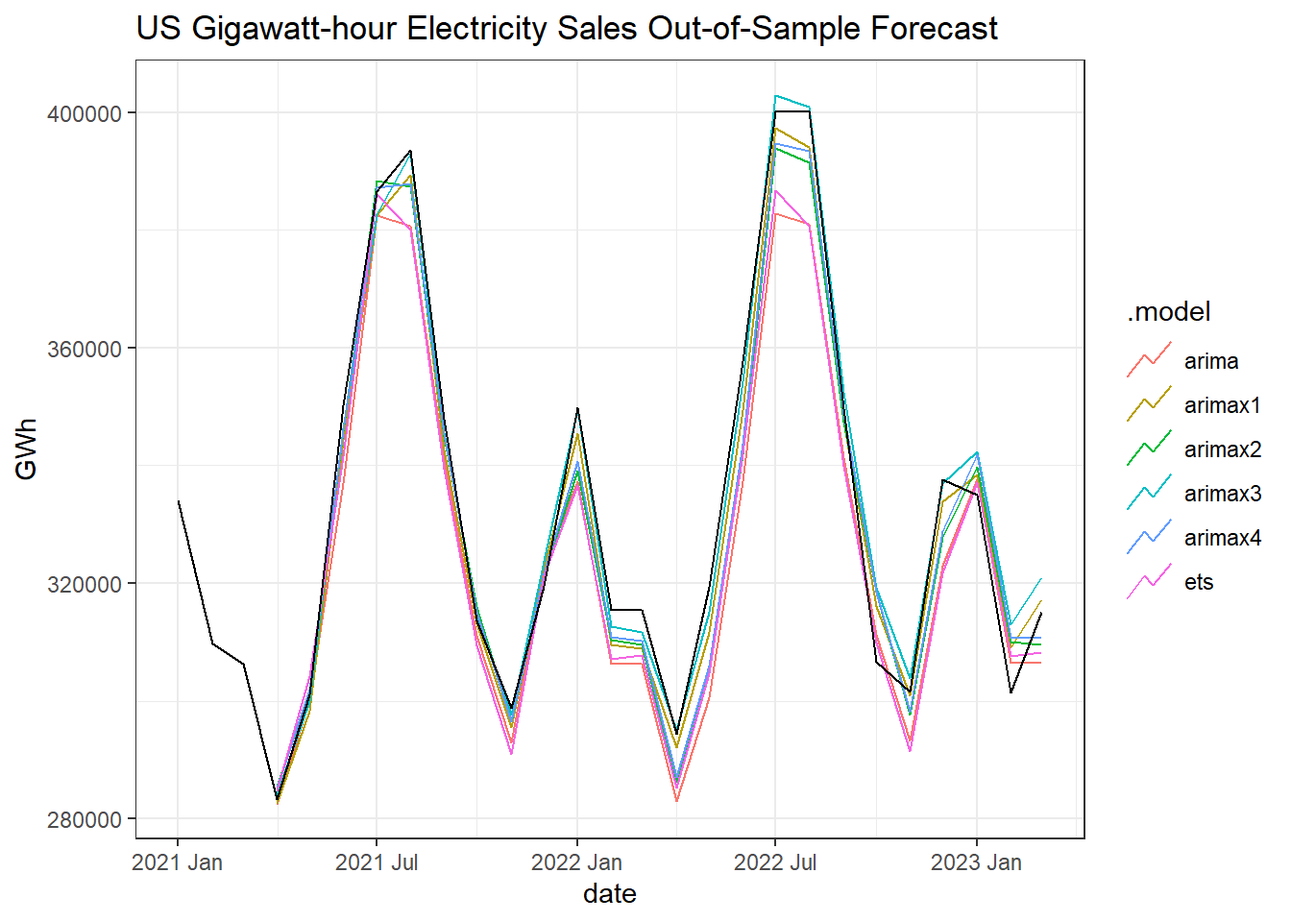
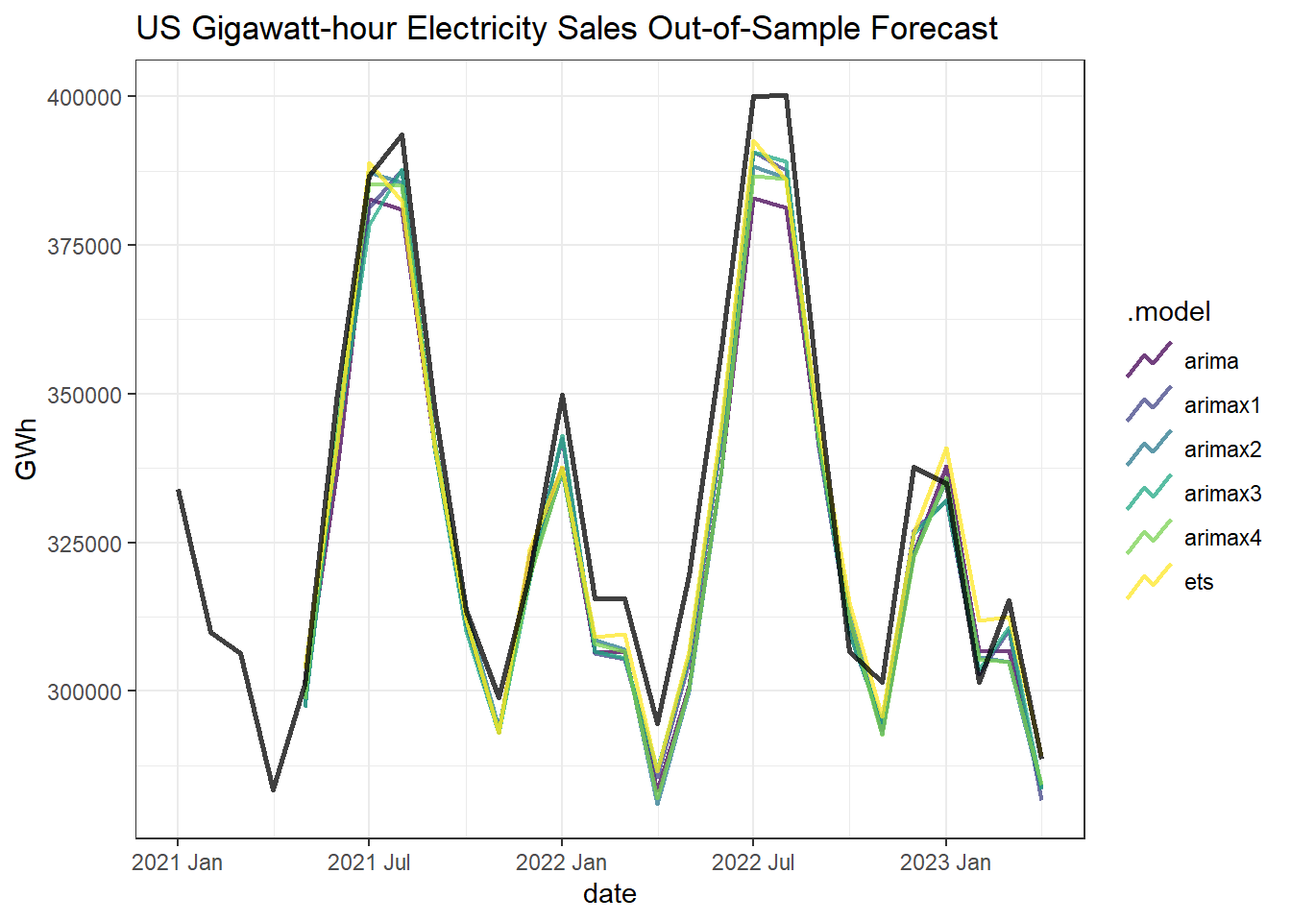
Corrected forecast for unknown regressors

diff --git a/Discussions/Week 4/Week 4.html b/Discussions/Week 4/Week 4.html
@@ -89,6 +89,7 @@ pre > code.sourceCode > span > a:first-child::before { text-decoration: underlin
   <li><a href="#modeling" id="toc-modeling" class="nav-link" data-scroll-target="#modeling">Modeling</a>
   <ul class="collapse">
   <li><a href="#forecast" id="toc-forecast" class="nav-link" data-scroll-target="#forecast">Forecast</a></li>
+  <li><a href="#actual-forecast" id="toc-actual-forecast" class="nav-link" data-scroll-target="#actual-forecast">Actual Forecast</a></li>
   </ul></li>
   </ul>
 </nav>
@@ -203,20 +204,38 @@ pre > code.sourceCode > span > a:first-child::before { text-decoration: underlin
 <span id="cb1-77"><a href="#cb1-77" aria-hidden="true" tabindex="-1"></a></span>
 <span id="cb1-78"><a href="#cb1-78" aria-hidden="true" tabindex="-1"></a><span class="co"># FRED</span></span>
 <span id="cb1-79"><a href="#cb1-79" aria-hidden="true" tabindex="-1"></a>{</span>
-<span id="cb1-80"><a href="#cb1-80" aria-hidden="true" tabindex="-1"></a>  <span class="co"># Using CEI as proxy for monthly GDP</span></span>
-<span id="cb1-81"><a href="#cb1-81" aria-hidden="true" tabindex="-1"></a>  cei <span class="ot">&lt;-</span> fredr<span class="sc">::</span><span class="fu">fredr</span>(<span class="st">"USPHCI"</span>) <span class="sc">%&gt;%</span> </span>
-<span id="cb1-82"><a href="#cb1-82" aria-hidden="true" tabindex="-1"></a>    <span class="fu">mutate</span>(<span class="at">date =</span> <span class="fu">yearmonth</span>(date)) <span class="sc">%&gt;%</span> </span>
-<span id="cb1-83"><a href="#cb1-83" aria-hidden="true" tabindex="-1"></a>    <span class="fu">rename</span>(<span class="at">cei =</span> value) <span class="sc">%&gt;%</span> </span>
-<span id="cb1-84"><a href="#cb1-84" aria-hidden="true" tabindex="-1"></a>    <span class="fu">select</span>(date, cei)</span>
-<span id="cb1-85"><a href="#cb1-85" aria-hidden="true" tabindex="-1"></a>  </span>
-<span id="cb1-86"><a href="#cb1-86" aria-hidden="true" tabindex="-1"></a>  gdp <span class="ot">&lt;-</span> fredr<span class="sc">::</span><span class="fu">fredr</span>(<span class="st">"GDPC1"</span>) <span class="sc">%&gt;%</span> </span>
-<span id="cb1-87"><a href="#cb1-87" aria-hidden="true" tabindex="-1"></a>    <span class="fu">mutate</span>(<span class="at">date =</span> <span class="fu">yearmonth</span>(date)) <span class="sc">%&gt;%</span> </span>
-<span id="cb1-88"><a href="#cb1-88" aria-hidden="true" tabindex="-1"></a>    <span class="fu">rename</span>(<span class="at">gdp =</span> value) <span class="sc">%&gt;%</span> </span>
-<span id="cb1-89"><a href="#cb1-89" aria-hidden="true" tabindex="-1"></a>    <span class="fu">select</span>(date, gdp)</span>
-<span id="cb1-90"><a href="#cb1-90" aria-hidden="true" tabindex="-1"></a>  </span>
-<span id="cb1-91"><a href="#cb1-91" aria-hidden="true" tabindex="-1"></a>}</span>
-<span id="cb1-92"><a href="#cb1-92" aria-hidden="true" tabindex="-1"></a></span>
-<span id="cb1-93"><a href="#cb1-93" aria-hidden="true" tabindex="-1"></a>data <span class="ot">&lt;-</span> purrr<span class="sc">::</span><span class="fu">reduce</span>(<span class="fu">list</span>(hdd, cdd, consumption, cei), inner_join)</span></code><button title="Copy to Clipboard" class="code-copy-button"><i class="bi"></i></button></pre></div>
+<span id="cb1-80"><a href="#cb1-80" aria-hidden="true" tabindex="-1"></a>  <span class="co"># # Using CEI as proxy for monthly GDP</span></span>
+<span id="cb1-81"><a href="#cb1-81" aria-hidden="true" tabindex="-1"></a>  <span class="co"># cei &lt;- fredr::fredr("USPHCI") %&gt;% </span></span>
+<span id="cb1-82"><a href="#cb1-82" aria-hidden="true" tabindex="-1"></a>  <span class="co">#   mutate(date = yearmonth(date)) %&gt;% </span></span>
+<span id="cb1-83"><a href="#cb1-83" aria-hidden="true" tabindex="-1"></a>  <span class="co">#   rename(cei = value) %&gt;% </span></span>
+<span id="cb1-84"><a href="#cb1-84" aria-hidden="true" tabindex="-1"></a>  <span class="co">#   select(date, cei)</span></span>
+<span id="cb1-85"><a href="#cb1-85" aria-hidden="true" tabindex="-1"></a>  <span class="co"># </span></span>
+<span id="cb1-86"><a href="#cb1-86" aria-hidden="true" tabindex="-1"></a>  <span class="co"># </span></span>
+<span id="cb1-87"><a href="#cb1-87" aria-hidden="true" tabindex="-1"></a>  <span class="co"># lei &lt;- fredr::fredr("BBKMLEIX") %&gt;% </span></span>
+<span id="cb1-88"><a href="#cb1-88" aria-hidden="true" tabindex="-1"></a>  <span class="co">#   mutate(date = yearmonth(date)) %&gt;% </span></span>
+<span id="cb1-89"><a href="#cb1-89" aria-hidden="true" tabindex="-1"></a>  <span class="co">#   rename(lei = value) %&gt;% </span></span>
+<span id="cb1-90"><a href="#cb1-90" aria-hidden="true" tabindex="-1"></a>  <span class="co">#   select(date, lei) %&gt;% </span></span>
+<span id="cb1-91"><a href="#cb1-91" aria-hidden="true" tabindex="-1"></a>  <span class="co">#   arrange(date) %&gt;% </span></span>
+<span id="cb1-92"><a href="#cb1-92" aria-hidden="true" tabindex="-1"></a>  <span class="co">#   mutate(</span></span>
+<span id="cb1-93"><a href="#cb1-93" aria-hidden="true" tabindex="-1"></a>  <span class="co">#     lei = 100*cumprod(1+lei/100)</span></span>
+<span id="cb1-94"><a href="#cb1-94" aria-hidden="true" tabindex="-1"></a>  <span class="co">#   )</span></span>
+<span id="cb1-95"><a href="#cb1-95" aria-hidden="true" tabindex="-1"></a>  <span class="co"># </span></span>
+<span id="cb1-96"><a href="#cb1-96" aria-hidden="true" tabindex="-1"></a>  <span class="co"># gdp &lt;- fredr::fredr("GDPC1") %&gt;% </span></span>
+<span id="cb1-97"><a href="#cb1-97" aria-hidden="true" tabindex="-1"></a>  <span class="co">#   mutate(date = yearmonth(date)) %&gt;% </span></span>
+<span id="cb1-98"><a href="#cb1-98" aria-hidden="true" tabindex="-1"></a>  <span class="co">#   rename(gdp = value) %&gt;% </span></span>
+<span id="cb1-99"><a href="#cb1-99" aria-hidden="true" tabindex="-1"></a>  <span class="co">#   select(date, gdp)</span></span>
+<span id="cb1-100"><a href="#cb1-100" aria-hidden="true" tabindex="-1"></a>  </span>
+<span id="cb1-101"><a href="#cb1-101" aria-hidden="true" tabindex="-1"></a>}</span></code><button title="Copy to Clipboard" class="code-copy-button"><i class="bi"></i></button></pre></div>
+</details>
+<div class="cell-output cell-output-stdout">
+<pre><code>NULL</code></pre>
+</div>
+<details>
+<summary>Code</summary>
+<div class="sourceCode cell-code" id="cb3"><pre class="sourceCode r code-with-copy"><code class="sourceCode r"><span id="cb3-1"><a href="#cb3-1" aria-hidden="true" tabindex="-1"></a>data <span class="ot">&lt;-</span> purrr<span class="sc">::</span><span class="fu">reduce</span>(<span class="fu">list</span>(</span>
+<span id="cb3-2"><a href="#cb3-2" aria-hidden="true" tabindex="-1"></a>  hdd, cdd, consumption</span>
+<span id="cb3-3"><a href="#cb3-3" aria-hidden="true" tabindex="-1"></a>  <span class="co"># , cei, lei</span></span>
+<span id="cb3-4"><a href="#cb3-4" aria-hidden="true" tabindex="-1"></a>), inner_join)</span></code><button title="Copy to Clipboard" class="code-copy-button"><i class="bi"></i></button></pre></div>
 </details>
 </div>
 </section>
@@ -227,12 +246,12 @@ pre > code.sourceCode > span > a:first-child::before { text-decoration: underlin
 <div class="cell">
 <details>
 <summary>Code</summary>
-<div class="sourceCode cell-code" id="cb2"><pre class="sourceCode r code-with-copy"><code class="sourceCode r"><span id="cb2-1"><a href="#cb2-1" aria-hidden="true" tabindex="-1"></a>test <span class="ot">&lt;-</span> data <span class="sc">%&gt;%</span> </span>
-<span id="cb2-2"><a href="#cb2-2" aria-hidden="true" tabindex="-1"></a>  <span class="fu">slice_max</span>(<span class="at">order_by =</span> date, <span class="at">n =</span> <span class="dv">24</span>) <span class="sc">%&gt;%</span> </span>
-<span id="cb2-3"><a href="#cb2-3" aria-hidden="true" tabindex="-1"></a>  <span class="fu">tsibble</span>(<span class="at">index =</span> date)</span>
-<span id="cb2-4"><a href="#cb2-4" aria-hidden="true" tabindex="-1"></a>train <span class="ot">&lt;-</span> data <span class="sc">%&gt;%</span> </span>
-<span id="cb2-5"><a href="#cb2-5" aria-hidden="true" tabindex="-1"></a>  <span class="fu">anti_join</span>(<span class="at">y =</span> test, <span class="at">by =</span> <span class="st">"date"</span>) <span class="sc">%&gt;%</span> </span>
-<span id="cb2-6"><a href="#cb2-6" aria-hidden="true" tabindex="-1"></a>  <span class="fu">tsibble</span>(<span class="at">index =</span> date)</span></code><button title="Copy to Clipboard" class="code-copy-button"><i class="bi"></i></button></pre></div>
+<div class="sourceCode cell-code" id="cb4"><pre class="sourceCode r code-with-copy"><code class="sourceCode r"><span id="cb4-1"><a href="#cb4-1" aria-hidden="true" tabindex="-1"></a>test <span class="ot">&lt;-</span> data <span class="sc">%&gt;%</span> </span>
+<span id="cb4-2"><a href="#cb4-2" aria-hidden="true" tabindex="-1"></a>  <span class="fu">slice_max</span>(<span class="at">order_by =</span> date, <span class="at">n =</span> <span class="dv">24</span>) <span class="sc">%&gt;%</span> </span>
+<span id="cb4-3"><a href="#cb4-3" aria-hidden="true" tabindex="-1"></a>  <span class="fu">tsibble</span>(<span class="at">index =</span> date)</span>
+<span id="cb4-4"><a href="#cb4-4" aria-hidden="true" tabindex="-1"></a>train <span class="ot">&lt;-</span> data <span class="sc">%&gt;%</span> </span>
+<span id="cb4-5"><a href="#cb4-5" aria-hidden="true" tabindex="-1"></a>  <span class="fu">anti_join</span>(<span class="at">y =</span> test, <span class="at">by =</span> <span class="st">"date"</span>) <span class="sc">%&gt;%</span> </span>
+<span id="cb4-6"><a href="#cb4-6" aria-hidden="true" tabindex="-1"></a>  <span class="fu">tsibble</span>(<span class="at">index =</span> date)</span></code><button title="Copy to Clipboard" class="code-copy-button"><i class="bi"></i></button></pre></div>
 </details>
 </div>
 </section>
@@ -244,9 +263,9 @@ pre > code.sourceCode > span > a:first-child::before { text-decoration: underlin
 <div class="cell">
 <details>
 <summary>Code</summary>
-<div class="sourceCode cell-code" id="cb3"><pre class="sourceCode r code-with-copy"><code class="sourceCode r"><span id="cb3-1"><a href="#cb3-1" aria-hidden="true" tabindex="-1"></a>train <span class="sc">%&gt;%</span> </span>
-<span id="cb3-2"><a href="#cb3-2" aria-hidden="true" tabindex="-1"></a>  <span class="fu">autoplot</span>(GWh) <span class="sc">+</span></span>
-<span id="cb3-3"><a href="#cb3-3" aria-hidden="true" tabindex="-1"></a>  <span class="fu">ggtitle</span>(<span class="st">"Monthly Gigawatt-hour Electricity Sales in US"</span>)</span></code><button title="Copy to Clipboard" class="code-copy-button"><i class="bi"></i></button></pre></div>
+<div class="sourceCode cell-code" id="cb5"><pre class="sourceCode r code-with-copy"><code class="sourceCode r"><span id="cb5-1"><a href="#cb5-1" aria-hidden="true" tabindex="-1"></a>train <span class="sc">%&gt;%</span> </span>
+<span id="cb5-2"><a href="#cb5-2" aria-hidden="true" tabindex="-1"></a>  <span class="fu">autoplot</span>(GWh) <span class="sc">+</span></span>
+<span id="cb5-3"><a href="#cb5-3" aria-hidden="true" tabindex="-1"></a>  <span class="fu">ggtitle</span>(<span class="st">"Monthly Gigawatt-hour Electricity Sales in US"</span>)</span></code><button title="Copy to Clipboard" class="code-copy-button"><i class="bi"></i></button></pre></div>
 </details>
 <div class="cell-output-display">
 <p><img src="Week-4_files/figure-html/unnamed-chunk-3-1.png" class="img-fluid" width="672"></p>
@@ -256,9 +275,9 @@ pre > code.sourceCode > span > a:first-child::before { text-decoration: underlin
 <div class="cell">
 <details>
 <summary>Code</summary>
-<div class="sourceCode cell-code" id="cb4"><pre class="sourceCode r code-with-copy"><code class="sourceCode r"><span id="cb4-1"><a href="#cb4-1" aria-hidden="true" tabindex="-1"></a>train <span class="sc">%&gt;%</span> </span>
-<span id="cb4-2"><a href="#cb4-2" aria-hidden="true" tabindex="-1"></a>  <span class="fu">gg_season</span>(GWh) <span class="sc">+</span></span>
-<span id="cb4-3"><a href="#cb4-3" aria-hidden="true" tabindex="-1"></a>  <span class="fu">ggtitle</span>(<span class="st">"Seasonality Plot: Monthly Gigawatt-hour Electricity Sales in US"</span>)</span></code><button title="Copy to Clipboard" class="code-copy-button"><i class="bi"></i></button></pre></div>
+<div class="sourceCode cell-code" id="cb6"><pre class="sourceCode r code-with-copy"><code class="sourceCode r"><span id="cb6-1"><a href="#cb6-1" aria-hidden="true" tabindex="-1"></a>train <span class="sc">%&gt;%</span> </span>
+<span id="cb6-2"><a href="#cb6-2" aria-hidden="true" tabindex="-1"></a>  <span class="fu">gg_season</span>(GWh) <span class="sc">+</span></span>
+<span id="cb6-3"><a href="#cb6-3" aria-hidden="true" tabindex="-1"></a>  <span class="fu">ggtitle</span>(<span class="st">"Seasonality Plot: Monthly Gigawatt-hour Electricity Sales in US"</span>)</span></code><button title="Copy to Clipboard" class="code-copy-button"><i class="bi"></i></button></pre></div>
 </details>
 <div class="cell-output-display">
 <p><img src="Week-4_files/figure-html/unnamed-chunk-4-1.png" class="img-fluid" width="672"></p>
@@ -268,9 +287,9 @@ pre > code.sourceCode > span > a:first-child::before { text-decoration: underlin
 <div class="cell">
 <details>
 <summary>Code</summary>
-<div class="sourceCode cell-code" id="cb5"><pre class="sourceCode r code-with-copy"><code class="sourceCode r"><span id="cb5-1"><a href="#cb5-1" aria-hidden="true" tabindex="-1"></a>train <span class="sc">%&gt;%</span> </span>
-<span id="cb5-2"><a href="#cb5-2" aria-hidden="true" tabindex="-1"></a>  <span class="fu">gg_subseries</span>(GWh) <span class="sc">+</span></span>
-<span id="cb5-3"><a href="#cb5-3" aria-hidden="true" tabindex="-1"></a>  <span class="fu">ggtitle</span>(<span class="st">"Subseries Plot: Monthly Gigawatt-hour Electricity Sales in US"</span>)</span></code><button title="Copy to Clipboard" class="code-copy-button"><i class="bi"></i></button></pre></div>
+<div class="sourceCode cell-code" id="cb7"><pre class="sourceCode r code-with-copy"><code class="sourceCode r"><span id="cb7-1"><a href="#cb7-1" aria-hidden="true" tabindex="-1"></a>train <span class="sc">%&gt;%</span> </span>
+<span id="cb7-2"><a href="#cb7-2" aria-hidden="true" tabindex="-1"></a>  <span class="fu">gg_subseries</span>(GWh) <span class="sc">+</span></span>
+<span id="cb7-3"><a href="#cb7-3" aria-hidden="true" tabindex="-1"></a>  <span class="fu">ggtitle</span>(<span class="st">"Subseries Plot: Monthly Gigawatt-hour Electricity Sales in US"</span>)</span></code><button title="Copy to Clipboard" class="code-copy-button"><i class="bi"></i></button></pre></div>
 </details>
 <div class="cell-output-display">
 <p><img src="Week-4_files/figure-html/unnamed-chunk-5-1.png" class="img-fluid" width="672"></p>
@@ -279,8 +298,8 @@ pre > code.sourceCode > span > a:first-child::before { text-decoration: underlin
 <div class="cell">
 <details>
 <summary>Code</summary>
-<div class="sourceCode cell-code" id="cb6"><pre class="sourceCode r code-with-copy"><code class="sourceCode r"><span id="cb6-1"><a href="#cb6-1" aria-hidden="true" tabindex="-1"></a>train <span class="sc">%&gt;%</span> </span>
-<span id="cb6-2"><a href="#cb6-2" aria-hidden="true" tabindex="-1"></a>  <span class="fu">gg_tsdisplay</span>(GWh, <span class="at">plot_type =</span> <span class="st">"partial"</span>, <span class="at">lag_max =</span> <span class="dv">36</span>)</span></code><button title="Copy to Clipboard" class="code-copy-button"><i class="bi"></i></button></pre></div>
+<div class="sourceCode cell-code" id="cb8"><pre class="sourceCode r code-with-copy"><code class="sourceCode r"><span id="cb8-1"><a href="#cb8-1" aria-hidden="true" tabindex="-1"></a>train <span class="sc">%&gt;%</span> </span>
+<span id="cb8-2"><a href="#cb8-2" aria-hidden="true" tabindex="-1"></a>  <span class="fu">gg_tsdisplay</span>(GWh, <span class="at">plot_type =</span> <span class="st">"partial"</span>, <span class="at">lag_max =</span> <span class="dv">36</span>)</span></code><button title="Copy to Clipboard" class="code-copy-button"><i class="bi"></i></button></pre></div>
 </details>
 </div>
 </section>
@@ -290,36 +309,14 @@ pre > code.sourceCode > span > a:first-child::before { text-decoration: underlin
 <div class="cell">
 <details>
 <summary>Code</summary>
-<div class="sourceCode cell-code" id="cb7"><pre class="sourceCode r code-with-copy"><code class="sourceCode r"><span id="cb7-1"><a href="#cb7-1" aria-hidden="true" tabindex="-1"></a>train <span class="sc">%&gt;%</span> </span>
-<span id="cb7-2"><a href="#cb7-2" aria-hidden="true" tabindex="-1"></a>  <span class="fu">model</span>(<span class="fu">STL</span>(GWh)) <span class="sc">%&gt;%</span> </span>
-<span id="cb7-3"><a href="#cb7-3" aria-hidden="true" tabindex="-1"></a>  <span class="fu">components</span>() <span class="sc">%&gt;%</span> </span>
-<span id="cb7-4"><a href="#cb7-4" aria-hidden="true" tabindex="-1"></a>  <span class="fu">autoplot</span>()</span></code><button title="Copy to Clipboard" class="code-copy-button"><i class="bi"></i></button></pre></div>
+<div class="sourceCode cell-code" id="cb9"><pre class="sourceCode r code-with-copy"><code class="sourceCode r"><span id="cb9-1"><a href="#cb9-1" aria-hidden="true" tabindex="-1"></a>train <span class="sc">%&gt;%</span> </span>
+<span id="cb9-2"><a href="#cb9-2" aria-hidden="true" tabindex="-1"></a>  <span class="fu">model</span>(<span class="fu">STL</span>(GWh)) <span class="sc">%&gt;%</span> </span>
+<span id="cb9-3"><a href="#cb9-3" aria-hidden="true" tabindex="-1"></a>  <span class="fu">components</span>() <span class="sc">%&gt;%</span> </span>
+<span id="cb9-4"><a href="#cb9-4" aria-hidden="true" tabindex="-1"></a>  <span class="fu">autoplot</span>()</span></code><button title="Copy to Clipboard" class="code-copy-button"><i class="bi"></i></button></pre></div>
 </details>
 <div class="cell-output-display">
 <p><img src="Week-4_files/figure-html/unnamed-chunk-7-1.png" class="img-fluid" width="672"></p>
 </div>
-</div>
-</section>
-<section id="cei-vs-gdp" class="level4">
-<h4 class="anchored" data-anchor-id="cei-vs-gdp">CEI vs GDP</h4>
-<p>To account for the business cycle correlation, the Coincident Economic Index (CEI) by the Federal Reserve Bank of Philadelphia will be used. Since US GDP is released quarterly, the CEI will be used instead. The CEI is highly correlated with GDP, and the business cycle, and should suffice. An alternative measure that could also work would be the Industrial Production Index, though that would not contain changes due to residential and commercial customer behavior.</p>
-<div class="cell">
-<details>
-<summary>Code</summary>
-<div class="sourceCode cell-code" id="cb8"><pre class="sourceCode r code-with-copy"><code class="sourceCode r"><span id="cb8-1"><a href="#cb8-1" aria-hidden="true" tabindex="-1"></a>train <span class="sc">%&gt;%</span> </span>
-<span id="cb8-2"><a href="#cb8-2" aria-hidden="true" tabindex="-1"></a>  <span class="fu">left_join</span>(<span class="at">y =</span> gdp) <span class="sc">%&gt;%</span> </span>
-<span id="cb8-3"><a href="#cb8-3" aria-hidden="true" tabindex="-1"></a>  <span class="fu">ggplot</span>(<span class="fu">aes</span>(<span class="at">x =</span> <span class="fu">scale</span>(gdp), <span class="at">y =</span> <span class="fu">scale</span>(cei), <span class="at">color =</span> <span class="fu">as.Date</span>(date))) <span class="sc">+</span></span>
-<span id="cb8-4"><a href="#cb8-4" aria-hidden="true" tabindex="-1"></a>  <span class="fu">geom_point</span>() <span class="sc">+</span></span>
-<span id="cb8-5"><a href="#cb8-5" aria-hidden="true" tabindex="-1"></a>  <span class="fu">geom_abline</span>(<span class="at">slope =</span> <span class="dv">1</span>, <span class="at">intercept =</span> <span class="dv">0</span>, <span class="at">linetype =</span> <span class="st">"dashed"</span>) <span class="sc">+</span></span>
-<span id="cb8-6"><a href="#cb8-6" aria-hidden="true" tabindex="-1"></a>  <span class="fu">ggtitle</span>(<span class="st">"Real GDP &amp; Coincident Economic Index"</span>) <span class="co">#+</span></span></code><button title="Copy to Clipboard" class="code-copy-button"><i class="bi"></i></button></pre></div>
-</details>
-<div class="cell-output-display">
-<p><img src="Week-4_files/figure-html/unnamed-chunk-8-1.png" class="img-fluid" width="672"></p>
-</div>
-<details>
-<summary>Code</summary>
-<div class="sourceCode cell-code" id="cb9"><pre class="sourceCode r code-with-copy"><code class="sourceCode r"><span id="cb9-1"><a href="#cb9-1" aria-hidden="true" tabindex="-1"></a>  <span class="co"># scale_color_viridis_c()</span></span></code><button title="Copy to Clipboard" class="code-copy-button"><i class="bi"></i></button></pre></div>
-</details>
 </div>
 </section>
 <section id="correlations-with-electricity" class="level4">
@@ -334,7 +331,7 @@ pre > code.sourceCode > span > a:first-child::before { text-decoration: underlin
 <span id="cb10-5"><a href="#cb10-5" aria-hidden="true" tabindex="-1"></a>  <span class="fu">facet_wrap</span>(name <span class="sc">~</span> ., <span class="at">scales =</span> <span class="st">"free"</span>)</span></code><button title="Copy to Clipboard" class="code-copy-button"><i class="bi"></i></button></pre></div>
 </details>
 <div class="cell-output-display">
-<p><img src="Week-4_files/figure-html/unnamed-chunk-9-1.png" class="img-fluid" width="672"></p>
+<p><img src="Week-4_files/figure-html/unnamed-chunk-8-1.png" class="img-fluid" width="672"></p>
 </div>
 </div>
 <p>Though there appears to be a parabolic relation between HDD and CDD with Electricity Sales, this is likely a result of months where there are both CDD and HDD. The below chart shows the correlation between Sales and HDD after removing the correlation with CDD. Though some non-linearity exists, it is much better. This could indicate struggling performance in the “shoulder months”, spring and fall, where both CDD and HDD are found.</p>
@@ -349,7 +346,7 @@ pre > code.sourceCode > span > a:first-child::before { text-decoration: underlin
 <span id="cb11-6"><a href="#cb11-6" aria-hidden="true" tabindex="-1"></a>  <span class="fu">geom_point</span>()</span></code><button title="Copy to Clipboard" class="code-copy-button"><i class="bi"></i></button></pre></div>
 </details>
 <div class="cell-output-display">
-<p><img src="Week-4_files/figure-html/unnamed-chunk-10-1.png" class="img-fluid" width="672"></p>
+<p><img src="Week-4_files/figure-html/unnamed-chunk-9-1.png" class="img-fluid" width="672"></p>
 </div>
 </div>
 </section>
@@ -367,10 +364,10 @@ pre > code.sourceCode > span > a:first-child::before { text-decoration: underlin
 <span id="cb12-2"><a href="#cb12-2" aria-hidden="true" tabindex="-1"></a>  <span class="fu">model</span>(</span>
 <span id="cb12-3"><a href="#cb12-3" aria-hidden="true" tabindex="-1"></a>    <span class="st">"ets"</span> <span class="ot">=</span> <span class="fu">ETS</span>(GWh),</span>
 <span id="cb12-4"><a href="#cb12-4" aria-hidden="true" tabindex="-1"></a>    <span class="st">"arima"</span> <span class="ot">=</span> <span class="fu">ARIMA</span>(<span class="fu">log</span>(GWh)),</span>
-<span id="cb12-5"><a href="#cb12-5" aria-hidden="true" tabindex="-1"></a>    <span class="st">"arimax1"</span> <span class="ot">=</span> <span class="fu">ARIMA</span>(GWh <span class="sc">~</span> hdd <span class="sc">+</span> cdd <span class="sc">+</span> cei),</span>
-<span id="cb12-6"><a href="#cb12-6" aria-hidden="true" tabindex="-1"></a>    <span class="st">"arimax2"</span> <span class="ot">=</span> <span class="fu">ARIMA</span>(GWh <span class="sc">~</span> <span class="fu">log</span>(hdd) <span class="sc">+</span> <span class="fu">log</span>(cdd) <span class="sc">+</span> <span class="fu">log</span>(cei)),</span>
-<span id="cb12-7"><a href="#cb12-7" aria-hidden="true" tabindex="-1"></a>    <span class="st">"arimax3"</span> <span class="ot">=</span> <span class="fu">ARIMA</span>(<span class="fu">log</span>(GWh) <span class="sc">~</span> hdd <span class="sc">+</span> cdd <span class="sc">+</span> cei),</span>
-<span id="cb12-8"><a href="#cb12-8" aria-hidden="true" tabindex="-1"></a>    <span class="st">"arimax4"</span> <span class="ot">=</span> <span class="fu">ARIMA</span>(<span class="fu">log</span>(GWh) <span class="sc">~</span> <span class="fu">log</span>(hdd) <span class="sc">+</span> <span class="fu">log</span>(cdd) <span class="sc">+</span> <span class="fu">log</span>(cei))</span>
+<span id="cb12-5"><a href="#cb12-5" aria-hidden="true" tabindex="-1"></a>    <span class="st">"arimax1"</span> <span class="ot">=</span> <span class="fu">ARIMA</span>(GWh <span class="sc">~</span> hdd <span class="sc">+</span> cdd),</span>
+<span id="cb12-6"><a href="#cb12-6" aria-hidden="true" tabindex="-1"></a>    <span class="st">"arimax2"</span> <span class="ot">=</span> <span class="fu">ARIMA</span>(GWh <span class="sc">~</span> <span class="fu">log</span>(hdd) <span class="sc">+</span> <span class="fu">log</span>(cdd)),</span>
+<span id="cb12-7"><a href="#cb12-7" aria-hidden="true" tabindex="-1"></a>    <span class="st">"arimax3"</span> <span class="ot">=</span> <span class="fu">ARIMA</span>(<span class="fu">log</span>(GWh) <span class="sc">~</span> hdd <span class="sc">+</span> cdd),</span>
+<span id="cb12-8"><a href="#cb12-8" aria-hidden="true" tabindex="-1"></a>    <span class="st">"arimax4"</span> <span class="ot">=</span> <span class="fu">ARIMA</span>(<span class="fu">log</span>(GWh) <span class="sc">~</span> <span class="fu">log</span>(hdd) <span class="sc">+</span> <span class="fu">log</span>(cdd))</span>
 <span id="cb12-9"><a href="#cb12-9" aria-hidden="true" tabindex="-1"></a>  ))</span></code><button title="Copy to Clipboard" class="code-copy-button"><i class="bi"></i></button></pre></div>
 </details>
 <div class="cell-output cell-output-stdout">
@@ -378,7 +375,7 @@ pre > code.sourceCode > span > a:first-child::before { text-decoration: underlin
            ets                     arima                                arimax1
        &lt;model&gt;                   &lt;model&gt;                                &lt;model&gt;
 1 &lt;ETS(M,A,M)&gt; &lt;ARIMA(1,1,2)(0,1,1)[12]&gt; &lt;LM w/ ARIMA(2,1,3)(0,1,1)[12] errors&gt;
-# … with 3 more variables: arimax2 &lt;model&gt;, arimax3 &lt;model&gt;, arimax4 &lt;model&gt;</code></pre>
+# ℹ 3 more variables: arimax2 &lt;model&gt;, arimax3 &lt;model&gt;, arimax4 &lt;model&gt;</code></pre>
 </div>
 </div>
 <p>The differing model types makes it difficult to compare using information criteria. The best way to compare these models are on out-of-sample forecasts.</p>
@@ -389,22 +386,21 @@ pre > code.sourceCode > span > a:first-child::before { text-decoration: underlin
 </details>
 <div class="cell-output cell-output-stdout">
 <pre><code># A tibble: 6 × 11
-  .model   sigma2 log_lik    AIC   AICc    BIC       MSE    AMSE     MAE ar_ro…¹
-  &lt;chr&gt;     &lt;dbl&gt;   &lt;dbl&gt;  &lt;dbl&gt;  &lt;dbl&gt;  &lt;dbl&gt;     &lt;dbl&gt;   &lt;dbl&gt;   &lt;dbl&gt; &lt;list&gt; 
-1 ets     4.91e-4  -4400.  8834.  8836.  8901. 44774033.  6.29e7  0.0176 &lt;NULL&gt; 
-2 arima   4.37e-4    884. -1757. -1757. -1738.       NA  NA      NA      &lt;cpl&gt;  
-3 arimax1 2.28e+7  -3580.  7180.  7181.  7219.       NA  NA      NA      &lt;cpl&gt;  
-4 arimax2 3.72e+7  -3671.  7356.  7357.  7383.       NA  NA      NA      &lt;cpl&gt;  
-5 arimax3 2.30e-4   1004. -1993. -1992. -1961.       NA  NA      NA      &lt;cpl&gt;  
-6 arimax4 3.75e-4    913. -1810. -1809. -1779.       NA  NA      NA      &lt;cpl&gt;  
-# … with 1 more variable: ma_roots &lt;list&gt;, and abbreviated variable name
-#   ¹ar_roots</code></pre>
+  .model   sigma2 log_lik    AIC   AICc    BIC      MSE    AMSE     MAE ar_roots
+  &lt;chr&gt;     &lt;dbl&gt;   &lt;dbl&gt;  &lt;dbl&gt;  &lt;dbl&gt;  &lt;dbl&gt;    &lt;dbl&gt;   &lt;dbl&gt;   &lt;dbl&gt; &lt;list&gt;  
+1 ets     4.95e-4  -4414.  8863.  8865.  8930.   4.53e7  6.13e7  0.0176 &lt;NULL&gt;  
+2 arima   4.36e-4    887. -1763. -1763. -1744.  NA      NA      NA      &lt;cpl&gt;   
+3 arimax1 2.39e+7  -3599.  7216.  7216.  7251.  NA      NA      NA      &lt;cpl&gt;   
+4 arimax2 3.80e+7  -3685.  7384.  7384.  7411.  NA      NA      NA      &lt;cpl&gt;   
+5 arimax3 2.42e-4    997. -1981. -1980. -1954.  NA      NA      NA      &lt;cpl&gt;   
+6 arimax4 3.86e-4    911. -1807. -1807. -1780.  NA      NA      NA      &lt;cpl&gt;   
+# ℹ 1 more variable: ma_roots &lt;list&gt;</code></pre>
 </div>
 </div>
 </section>
 <section id="forecast" class="level3">
 <h3 class="anchored" data-anchor-id="forecast">Forecast</h3>
-<p>The models were trained on data prior to 2021-04-01. The forecast period is the interval 2021-04-01 UTC–2023-03-01 UTC.</p>
+<p>The models were trained on data prior to 2021-05-01. The forecast period is the interval 2021-05-01 UTC–2023-04-01 UTC.</p>
 <div class="cell">
 <details>
 <summary>Code</summary>
@@ -425,7 +421,7 @@ pre > code.sourceCode > span > a:first-child::before { text-decoration: underlin
 <span id="cb16-15"><a href="#cb16-15" aria-hidden="true" tabindex="-1"></a>    <span class="fu">scale_color_viridis_d</span>()</span></code><button title="Copy to Clipboard" class="code-copy-button"><i class="bi"></i></button></pre></div>
 </details>
 <div class="cell-output-display">
-<p><img src="Week-4_files/figure-html/unnamed-chunk-13-1.png" class="img-fluid" width="672"></p>
+<p><img src="Week-4_files/figure-html/unnamed-chunk-12-1.png" class="img-fluid" width="672"></p>
 </div>
 </div>
 <p>The model <em>arimax3</em> performs best on both the point estimate metrics and along the probability distribution. The ETS and ARIMA model without exogenous regressors performed worst, indicating these regressors do aid in the predictions.</p>
@@ -438,14 +434,14 @@ pre > code.sourceCode > span > a:first-child::before { text-decoration: underlin
 </details>
 <div class="cell-output cell-output-stdout">
 <pre><code># A tibble: 6 × 10
-  .model  .type    ME   RMSE   MAE    MPE  MAPE  MASE RMSSE  ACF1
-  &lt;chr&gt;   &lt;chr&gt; &lt;dbl&gt;  &lt;dbl&gt; &lt;dbl&gt;  &lt;dbl&gt; &lt;dbl&gt; &lt;dbl&gt; &lt;dbl&gt; &lt;dbl&gt;
-1 arimax3 Test  -998.  4613. 3374. -0.337  1.04   NaN   NaN 0.453
-2 arimax1 Test  2173.  4942. 4300.  0.605  1.29   NaN   NaN 0.345
-3 arimax4 Test  2630.  6754. 5554.  0.735  1.68   NaN   NaN 0.280
-4 arimax2 Test  3291.  7322. 6089.  0.929  1.83   NaN   NaN 0.257
-5 ets     Test  7074.  9976. 8566.  2.03   2.52   NaN   NaN 0.193
-6 arima   Test  7897. 10860. 9186.  2.28   2.69   NaN   NaN 0.319</code></pre>
+  .model  .type    ME   RMSE   MAE   MPE  MAPE  MASE RMSSE   ACF1
+  &lt;chr&gt;   &lt;chr&gt; &lt;dbl&gt;  &lt;dbl&gt; &lt;dbl&gt; &lt;dbl&gt; &lt;dbl&gt; &lt;dbl&gt; &lt;dbl&gt;  &lt;dbl&gt;
+1 arimax3 Test  6543.  7752. 6974.  1.93  2.07   NaN   NaN 0.331 
+2 arimax1 Test  6667.  8004. 7069.  1.97  2.10   NaN   NaN 0.349 
+3 ets     Test  4343.  8111. 7181.  1.23  2.13   NaN   NaN 0.0998
+4 arimax2 Test  7029.  9773. 8045.  2.07  2.40   NaN   NaN 0.291 
+5 arimax4 Test  7317.  9831. 8179.  2.15  2.43   NaN   NaN 0.312 
+6 arima   Test  7857. 10740. 9209.  2.27  2.71   NaN   NaN 0.284 </code></pre>
 </div>
 </div>
 <div class="cell">
@@ -459,12 +455,12 @@ pre > code.sourceCode > span > a:first-child::before { text-decoration: underlin
 <pre><code># A tibble: 6 × 4
   .model  .type percentile  CRPS
   &lt;chr&gt;   &lt;chr&gt;      &lt;dbl&gt; &lt;dbl&gt;
-1 arimax3 Test       2649. 2626.
-2 arimax1 Test       2893. 2864.
-3 arimax4 Test       3905. 3871.
-4 arimax2 Test       4173. 4132.
-5 ets     Test       6052. 5993.
-6 arima   Test       6296. 6241.</code></pre>
+1 arimax3 Test       4623. 4582.
+2 arimax1 Test       4772. 4725.
+3 ets     Test       5099. 5049.
+4 arimax2 Test       5640. 5584.
+5 arimax4 Test       5684. 5633.
+6 arima   Test       6269. 6213.</code></pre>
 </div>
 </div>
 <section id="model-statistics" class="level4">
@@ -483,12 +479,12 @@ Model: LM w/ ARIMA(0,1,2)(1,1,1)[12] errors
 Transformation: log(GWh) 
 
 Coefficients:
-          ma1      ma2    sar1     sma1    hdd    cdd     cei
-      -0.6304  -0.1326  0.0386  -0.7975  2e-04  7e-04  0.0034
-s.e.   0.0630   0.0641  0.0662   0.0370  0e+00  1e-04     NaN
+          ma1      ma2    sar1     sma1    hdd    cdd
+      -0.5521  -0.1593  0.0609  -0.8067  2e-04  7e-04
+s.e.   0.0932   0.0825  0.0718   0.0367  1e-04  1e-04
 
-sigma^2 estimated as 0.00023:  log likelihood=1004.31
-AIC=-1992.62   AICc=-1992.21   BIC=-1961.49</code></pre>
+sigma^2 estimated as 0.0002419:  log likelihood=997.39
+AIC=-1980.77   AICc=-1980.46   BIC=-1953.51</code></pre>
 </div>
 </div>
 <p>The residuals appear to be white noise which is confirmed with the Ljung-Box test.</p>
@@ -500,7 +496,7 @@ AIC=-1992.62   AICc=-1992.21   BIC=-1961.49</code></pre>
 <span id="cb23-3"><a href="#cb23-3" aria-hidden="true" tabindex="-1"></a>  <span class="fu">gg_tsresiduals</span>()</span></code><button title="Copy to Clipboard" class="code-copy-button"><i class="bi"></i></button></pre></div>
 </details>
 <div class="cell-output-display">
-<p><img src="Week-4_files/figure-html/unnamed-chunk-17-1.png" class="img-fluid" width="672"></p>
+<p><img src="Week-4_files/figure-html/unnamed-chunk-16-1.png" class="img-fluid" width="672"></p>
 </div>
 </div>
 <div class="cell">
@@ -515,10 +511,74 @@ AIC=-1992.62   AICc=-1992.21   BIC=-1961.49</code></pre>
 <pre><code># A tibble: 1 × 3
   .model  lb_stat lb_pvalue
   &lt;chr&gt;     &lt;dbl&gt;     &lt;dbl&gt;
-1 arimax3   0.191     0.662</code></pre>
+1 arimax3   0.221     0.638</code></pre>
 </div>
 </div>
 </section>
+</section>
+<section id="actual-forecast" class="level3">
+<h3 class="anchored" data-anchor-id="actual-forecast">Actual Forecast</h3>
+<p>Since HDD and CDD aren’t actually known the above forecast underestimates the forecast error, a true forecast will not know the future values of CDD and HDD.</p>
+<div class="cell">
+<details>
+<summary>Code</summary>
+<div class="sourceCode cell-code" id="cb26"><pre class="sourceCode r code-with-copy"><code class="sourceCode r"><span id="cb26-1"><a href="#cb26-1" aria-hidden="true" tabindex="-1"></a>test.with.unknown <span class="ot">&lt;-</span> test <span class="sc">%&gt;%</span> </span>
+<span id="cb26-2"><a href="#cb26-2" aria-hidden="true" tabindex="-1"></a>  <span class="fu">rename</span>(<span class="at">hdd.actual =</span> hdd, <span class="at">cdd.actual =</span> cdd) <span class="sc">%&gt;%</span> </span>
+<span id="cb26-3"><a href="#cb26-3" aria-hidden="true" tabindex="-1"></a>  <span class="fu">mutate</span>(<span class="at">month =</span> <span class="fu">month</span>(date)) <span class="sc">%&gt;%</span> </span>
+<span id="cb26-4"><a href="#cb26-4" aria-hidden="true" tabindex="-1"></a>  <span class="fu">left_join</span>(</span>
+<span id="cb26-5"><a href="#cb26-5" aria-hidden="true" tabindex="-1"></a>    <span class="at">y =</span> train <span class="sc">%&gt;%</span> </span>
+<span id="cb26-6"><a href="#cb26-6" aria-hidden="true" tabindex="-1"></a>      <span class="fu">as_tibble</span>() <span class="sc">%&gt;%</span> </span>
+<span id="cb26-7"><a href="#cb26-7" aria-hidden="true" tabindex="-1"></a>      <span class="fu">filter</span>(<span class="fu">year</span>(date) <span class="sc">&gt;=</span> <span class="dv">2010</span>) <span class="sc">%&gt;%</span> </span>
+<span id="cb26-8"><a href="#cb26-8" aria-hidden="true" tabindex="-1"></a>      <span class="fu">mutate</span>(<span class="at">month =</span> <span class="fu">month</span>(date)) <span class="sc">%&gt;%</span> </span>
+<span id="cb26-9"><a href="#cb26-9" aria-hidden="true" tabindex="-1"></a>      <span class="fu">group_by</span>(month) <span class="sc">%&gt;%</span> </span>
+<span id="cb26-10"><a href="#cb26-10" aria-hidden="true" tabindex="-1"></a>      <span class="fu">summarize</span>(<span class="fu">across</span>(<span class="fu">c</span>(hdd, cdd), mean)) <span class="sc">%&gt;%</span> </span>
+<span id="cb26-11"><a href="#cb26-11" aria-hidden="true" tabindex="-1"></a>      <span class="fu">ungroup</span>(),</span>
+<span id="cb26-12"><a href="#cb26-12" aria-hidden="true" tabindex="-1"></a>    <span class="at">by =</span> <span class="st">"month"</span></span>
+<span id="cb26-13"><a href="#cb26-13" aria-hidden="true" tabindex="-1"></a>  )</span></code><button title="Copy to Clipboard" class="code-copy-button"><i class="bi"></i></button></pre></div>
+</details>
+</div>
+<div class="cell">
+<details>
+<summary>Code</summary>
+<div class="sourceCode cell-code" id="cb27"><pre class="sourceCode r code-with-copy"><code class="sourceCode r"><span id="cb27-1"><a href="#cb27-1" aria-hidden="true" tabindex="-1"></a>  fx.true <span class="ot">&lt;-</span> fit <span class="sc">%&gt;%</span> </span>
+<span id="cb27-2"><a href="#cb27-2" aria-hidden="true" tabindex="-1"></a>        <span class="fu">forecast</span>(test.with.unknown)</span>
+<span id="cb27-3"><a href="#cb27-3" aria-hidden="true" tabindex="-1"></a>  </span>
+<span id="cb27-4"><a href="#cb27-4" aria-hidden="true" tabindex="-1"></a></span>
+<span id="cb27-5"><a href="#cb27-5" aria-hidden="true" tabindex="-1"></a>  fx.true <span class="sc">%&gt;%</span> </span>
+<span id="cb27-6"><a href="#cb27-6" aria-hidden="true" tabindex="-1"></a>    <span class="fu">autoplot</span>(</span>
+<span id="cb27-7"><a href="#cb27-7" aria-hidden="true" tabindex="-1"></a>        <span class="co"># data %&gt;% filter(year(date)&gt;2020),</span></span>
+<span id="cb27-8"><a href="#cb27-8" aria-hidden="true" tabindex="-1"></a>        <span class="at">level =</span> <span class="cn">NULL</span>,</span>
+<span id="cb27-9"><a href="#cb27-9" aria-hidden="true" tabindex="-1"></a>        <span class="at">size =</span> .<span class="dv">75</span>, <span class="at">alpha =</span> .<span class="dv">75</span></span>
+<span id="cb27-10"><a href="#cb27-10" aria-hidden="true" tabindex="-1"></a>      ) <span class="sc">+</span></span>
+<span id="cb27-11"><a href="#cb27-11" aria-hidden="true" tabindex="-1"></a>    <span class="fu">autolayer</span>(</span>
+<span id="cb27-12"><a href="#cb27-12" aria-hidden="true" tabindex="-1"></a>      data <span class="sc">%&gt;%</span> <span class="fu">tsibble</span>() <span class="sc">%&gt;%</span> <span class="fu">filter</span>(<span class="fu">year</span>(date)<span class="sc">&gt;</span><span class="dv">2020</span>), GWh, </span>
+<span id="cb27-13"><a href="#cb27-13" aria-hidden="true" tabindex="-1"></a>      <span class="at">size =</span> <span class="dv">1</span>, <span class="at">alpha =</span> .<span class="dv">75</span><span class="co">#, linetype = "dashed"</span></span>
+<span id="cb27-14"><a href="#cb27-14" aria-hidden="true" tabindex="-1"></a>    ) <span class="sc">+</span></span>
+<span id="cb27-15"><a href="#cb27-15" aria-hidden="true" tabindex="-1"></a>    <span class="fu">ggtitle</span>(<span class="st">"US Gigawatt-hour Electricity Sales Out-of-Sample Forecast"</span>) <span class="sc">+</span> </span>
+<span id="cb27-16"><a href="#cb27-16" aria-hidden="true" tabindex="-1"></a>    <span class="fu">scale_color_viridis_d</span>()</span></code><button title="Copy to Clipboard" class="code-copy-button"><i class="bi"></i></button></pre></div>
+</details>
+<div class="cell-output-display">
+<p><img src="Week-4_files/figure-html/unnamed-chunk-19-1.png" class="img-fluid" width="672"></p>
+</div>
+</div>
+<div class="cell">
+<details>
+<summary>Code</summary>
+<div class="sourceCode cell-code" id="cb28"><pre class="sourceCode r code-with-copy"><code class="sourceCode r"><span id="cb28-1"><a href="#cb28-1" aria-hidden="true" tabindex="-1"></a>fx.true <span class="sc">%&gt;%</span> </span>
+<span id="cb28-2"><a href="#cb28-2" aria-hidden="true" tabindex="-1"></a>  <span class="fu">accuracy</span>(test.with.unknown)</span></code><button title="Copy to Clipboard" class="code-copy-button"><i class="bi"></i></button></pre></div>
+</details>
+<div class="cell-output cell-output-stdout">
+<pre><code># A tibble: 6 × 10
+  .model  .type    ME   RMSE   MAE   MPE  MAPE  MASE RMSSE   ACF1
+  &lt;chr&gt;   &lt;chr&gt; &lt;dbl&gt;  &lt;dbl&gt; &lt;dbl&gt; &lt;dbl&gt; &lt;dbl&gt; &lt;dbl&gt; &lt;dbl&gt;  &lt;dbl&gt;
+1 arima   Test  7857. 10740. 9209.  2.27  2.71   NaN   NaN 0.284 
+2 arimax1 Test  7075. 10203. 8758.  2.05  2.59   NaN   NaN 0.291 
+3 arimax2 Test  8061. 11011. 9484.  2.34  2.79   NaN   NaN 0.247 
+4 arimax3 Test  7041. 10094. 8769.  2.03  2.58   NaN   NaN 0.291 
+5 arimax4 Test  8390. 11229. 9702.  2.43  2.85   NaN   NaN 0.285 
+6 ets     Test  4343.  8111. 7181.  1.23  2.13   NaN   NaN 0.0998</code></pre>
+</div>
+</div>
 </section>
 </section>
 
